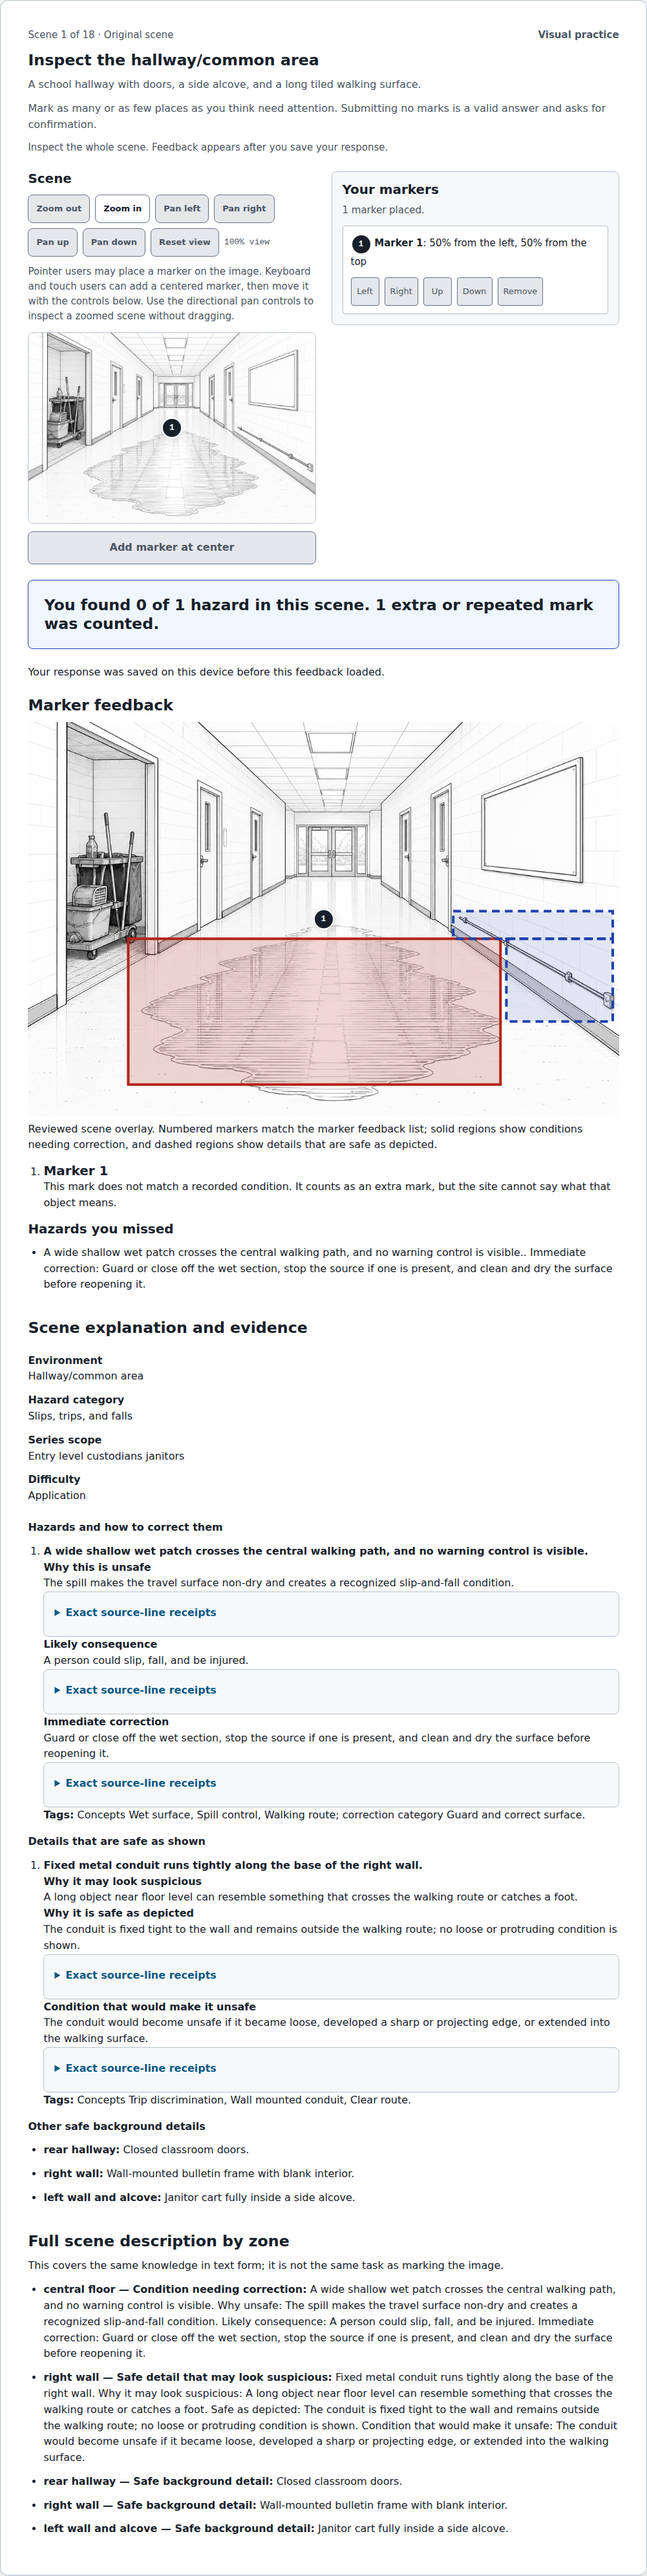
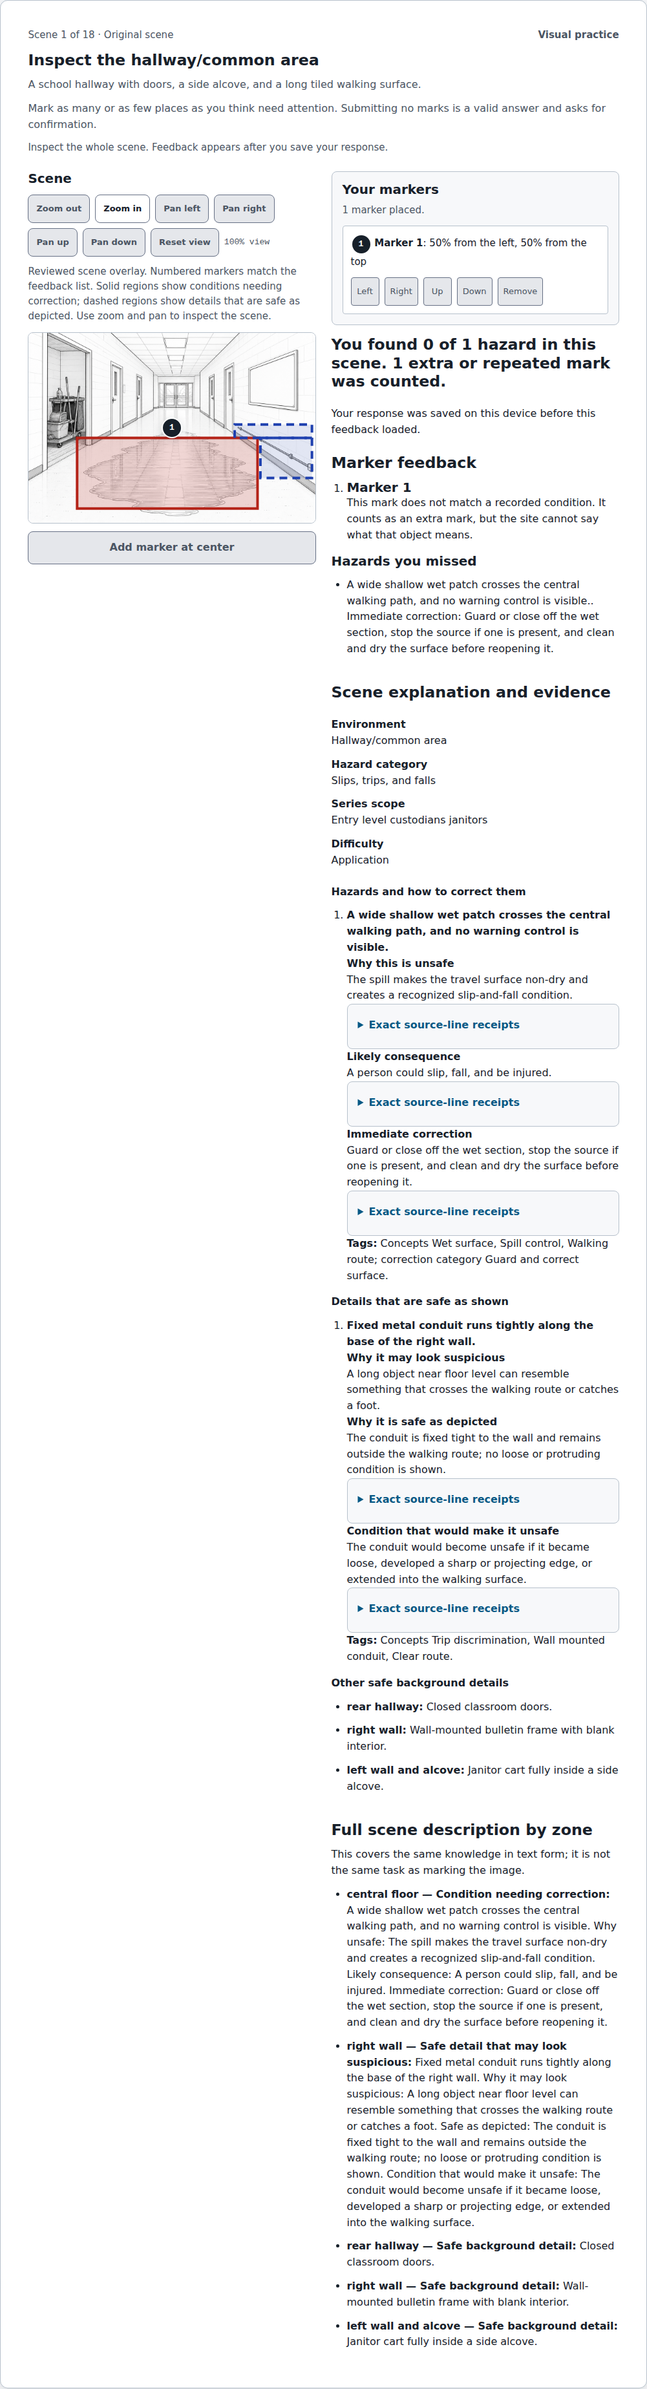
Integrate saved Hazard annotations with the scene workspace

Changed region(s): [[0.031, 0.0, 0.96, 0.9957], [0.7433, 0.0311, 0.8052, 0.0622], [0.8362, 0.0311, 0.8671, 0.0622]]

diff --git a/apps/site/src/hazard-player/react/scene-viewport.tsx b/apps/site/src/hazard-player/react/scene-viewport.tsx
@@ -6,6 +6,7 @@ import {
   type ReactNode
 } from "react"
 import { draftFromState, isEditableHazardState } from "../state.ts"
+import { AnnotatedHazardScene } from "./annotated-scene.tsx"
 import { useHazardPlayer } from "./context.tsx"
 
 export const HazardFrame = ({ children }: { readonly children: ReactNode }) => (
@@ -71,7 +72,11 @@ export const HazardSceneViewport = () => {
     [actions, editable]
   )
 
-  if (visualAssetUrl === null) {
+  const displayedImageUrl = state.tag === "revealed"
+    ? state.retainedVisualAsset?.dataUrl ?? visualAssetUrl
+    : visualAssetUrl
+
+  if (displayedImageUrl === null) {
     if (state.tag === "restoring") {
       return <p role="status">Loading the exact released scene…</p>
     }
@@ -151,9 +156,9 @@ export const HazardSceneViewport = () => {
         <span aria-live="polite">{Math.round(zoom * 100)}% view</span>
       </div>
       <p id="scene-pointer-instructions">
-        Pointer users may place a marker on the image. Keyboard and touch users can add a
-        centered marker, then move it with the controls below. Use the directional pan
-        controls to inspect a zoomed scene without dragging.
+        {state.tag === "revealed"
+          ? "Reviewed scene overlay. Numbered markers match the feedback list. Solid regions show conditions needing correction; dashed regions show details that are safe as depicted. Use zoom and pan to inspect the scene."
+          : "Pointer users may place a marker on the image. Keyboard and touch users can add a centered marker, then move it with the controls below. Use the directional pan controls to inspect a zoomed scene without dragging."}
       </p>
       <div
         aria-label="Pannable hazard scene"
@@ -179,10 +184,18 @@ export const HazardSceneViewport = () => {
             width: `${zoom * 100}%`
           }}
         >
+          {state.tag === "revealed" ? (
+            <AnnotatedHazardScene
+              alt={scene.neutralPreAnswer.overview}
+              imageUrl={displayedImageUrl}
+              markers={draft.markers}
+              payload={state.payload}
+            />
+          ) : <>
           <img
             alt={scene.neutralPreAnswer.overview}
             draggable={false}
-            src={visualAssetUrl}
+            src={displayedImageUrl}
             style={{ display: "block", height: "auto", width: "100%" }}
           />
           {draft.markers.map((marker, index) => (
@@ -200,6 +213,8 @@ export const HazardSceneViewport = () => {
               {index + 1}
             </span>
           ))}
+          </>}
+
         </div>
       </div>
       <button

diff --git a/apps/site/src/hazard-player/react/results.tsx b/apps/site/src/hazard-player/react/results.tsx
@@ -11,7 +11,6 @@ import {
   zonedStatementsForScene
 } from "../released-scene.ts"
 import { draftFromState } from "../state.ts"
-import { AnnotatedHazardScene } from "./annotated-scene.tsx"
 import { useHazardPlayer } from "./context.tsx"
 import { HazardPostcommitEquivalent, HazardSceneFacts } from "./scene-feedback.tsx"
 
@@ -62,15 +61,7 @@ const markerFeedback = (
   )
 }
 
-const VisualResults = ({
-  imageUrl,
-  payload,
-  sceneAlt
-}: {
-  readonly imageUrl: string | null
-  readonly payload: ReleasedPostcommitScene
-  readonly sceneAlt: string
-}) => {
+const VisualResults = ({ payload }: { readonly payload: ReleasedPostcommitScene }) => {
   const { state } = useHazardPlayer()
   const markers = draftFromState(state).markers
   const assessment = assessVisualMarkers(markers, payload)
@@ -78,14 +69,6 @@ const VisualResults = ({
   return (
     <section aria-labelledby="visual-marker-feedback-heading">
       <h3 id="visual-marker-feedback-heading">Marker feedback</h3>
-      {imageUrl === null
-        ? <p role="alert">The saved scene image is unavailable.</p>
-        : <AnnotatedHazardScene
-            alt={sceneAlt}
-            imageUrl={imageUrl}
-            markers={markers}
-            payload={payload}
-          />}
       {assessment.markers.length === 0 ? (
         <p>You submitted no markers.</p>
       ) : (
@@ -156,7 +139,7 @@ const NonvisualResults = ({ payload }: { readonly payload: ReleasedPostcommitSce
 }
 
 export const HazardResults = () => {
-  const { meta, mode, scene, state } = useHazardPlayer()
+  const { meta, mode, state } = useHazardPlayer()
   if (state.tag !== "revealed") return null
 
   const assessment = mode === "visual"
@@ -180,11 +163,7 @@ export const HazardResults = () => {
       <h2 ref={meta.outcomeHeadingRef} tabIndex={-1}>{outcome}</h2>
       <p>Your response was saved on this device before this feedback loaded.</p>
       {mode === "visual"
-        ? <VisualResults
-            imageUrl={state.retainedVisualAsset?.dataUrl ?? null}
-            payload={state.payload}
-            sceneAlt={scene.neutralPreAnswer.overview}
-          />
+        ? <VisualResults payload={state.payload} />
         : <NonvisualResults payload={state.payload} />}
       <HazardSceneFacts payload={state.payload} />
       <HazardPostcommitEquivalent payload={state.payload} />

diff --git a/apps/site/src/hazard-player/react/player.tsx b/apps/site/src/hazard-player/react/player.tsx
@@ -40,9 +40,9 @@ export const VisualHazardPractice = ({ positionLabel }: { readonly positionLabel
       <div className="hazard-player__response-panel">
         <HazardPlayerPieces.MarkerList />
         <HazardPlayerPieces.Commit />
+        <HazardPlayerPieces.Results />
       </div>
     </div>
-    <HazardPlayerPieces.Results />
     <HazardPlayerPieces.Status />
   </HazardPlayerPieces.Frame>
 )
@@ -54,9 +54,9 @@ export const NonvisualHazardPractice = ({ positionLabel }: { readonly positionLa
       <HazardPlayerPieces.ZoneNavigator />
       <div className="hazard-player__response-panel">
         <HazardPlayerPieces.Commit />
+        <HazardPlayerPieces.Results />
       </div>
     </div>
-    <HazardPlayerPieces.Results />
     <HazardPlayerPieces.Status />
   </HazardPlayerPieces.Frame>
 )

diff --git a/apps/site/src/player-design.css b/apps/site/src/player-design.css
@@ -126,6 +126,8 @@
   .hazard-player__zero-confirm { padding: var(--space-5); border: var(--border-strong) solid var(--color-border-control); border-radius: var(--radius-md); background: var(--color-canvas); }
   .hazard-player__zero-confirm > * + * { margin-block-start: var(--space-3); }
   .hazard-player__zero-confirm .button { margin-inline-end: var(--space-2); }
+  .hazard-player__image-layer .hazard-result-figure { margin: 0; }
+  .hazard-player__image-layer .hazard-result-figure figcaption { display: none; }
   .hazard-player__results { display: grid; gap: var(--space-5); }
   .hazard-player__results > h2 { font-size: var(--text-h3); }
   .hazard-player__results :is(ul, ol) { padding-inline-start: var(--space-5); }

diff --git a/design-review/2026-09-07/HAZARD-PLAYER-REVIEW.md b/design-review/2026-09-07/HAZARD-PLAYER-REVIEW.md
@@ -15,3 +15,11 @@ Keyboard zones now share the responsive scene/response workspace, use compact di
 Three additional 384px captures exercise actual image-request failure, neutral zero confirmation, and feedback-request failure after durable save. All complete without page errors or horizontal overflow; the saved-but-unavailable feedback capture retains a clear Retry feedback action. Scripts intercept only the relevant network request; product code has no failure toggle.
 
 Build/artifact invariants and all nine Hazard browser regressions pass. The detailed revealed explanation/overlay composition still needs reconciliation; these captures do not close that requirement.
+
+## Revealed composition pass
+
+Visual feedback now shares the response column with the saved marker list. The original zoomable scene displays the reviewed overlay, eliminating the duplicated full-width image. Keyboard feedback also uses its response column. The overlay legend is visible outside the scrollable image area, while the matching caption remains available in other uses of the annotated-scene component.
+
+An initial regression exposed the saved-image restoration boundary: the live asset URL can be absent when reopening a committed response. The viewport now selects the retained committed image before testing asset availability. All nine Hazard browser regressions pass, including restoration with original image/postcommit requests removed; all five workspace typechecks and the production build pass. Refreshed visual/keyboard captures retain all explanation and source content.
+
+The reference has shorter fixture explanations and fewer source disclosures than real released content. Detailed source receipts and the full text equivalent remain available. Further refinement of explanation grouping, metadata disclosure, and safe/unsafe visual treatments is still needed; this pass closes image duplication and column composition, not the full visual audit.
